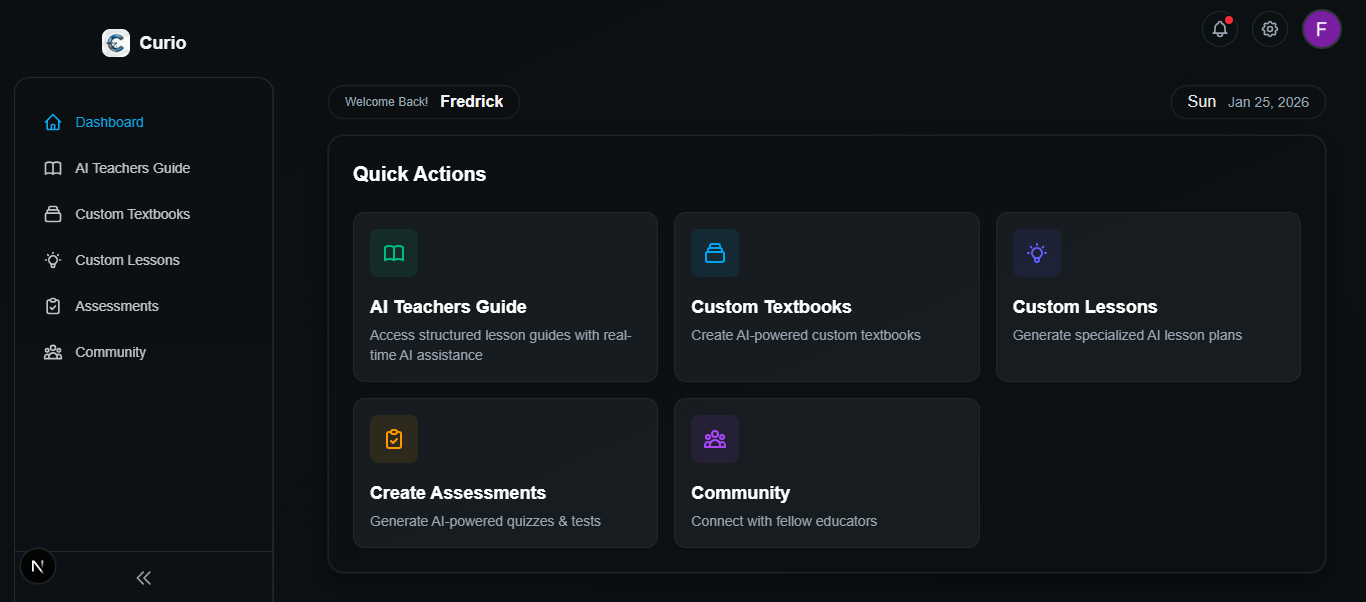
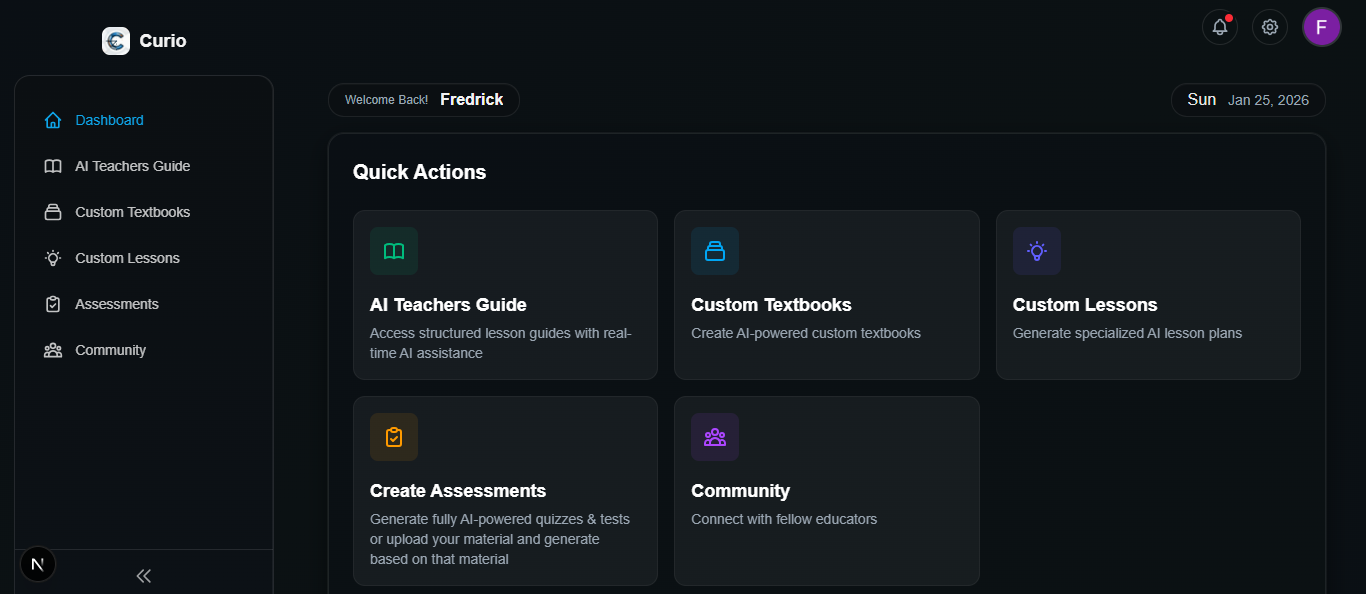
Refactor hero page to use the new images

diff --git a/components/CBCTeacher/dashboard/QuickActionsCard.tsx b/components/CBCTeacher/dashboard/QuickActionsCard.tsx
@@ -41,7 +41,7 @@ export default function QuickActionsCard() {
         },
         {
             title: "Create Assessments",
-            description: "Generate AI-powered quizzes & tests",
+            description: "Generate fully AI-powered quizzes & tests or upload your material and generate based on that material",
             icon: (
                 <svg className="w-6 h-6" fill="none" viewBox="0 0 24 24" stroke="currentColor">
                     <path strokeLinecap="round" strokeLinejoin="round" strokeWidth={2} d="M9 5H7a2 2 0 00-2 2v12a2 2 0 002 2h10a2 2 0 002-2V7a2 2 0 00-2-2h-2M9 5a2 2 0 002 2h2a2 2 0 002-2M9 5a2 2 0 012-2h2a2 2 0 012 2m-6 9l2 2 4-4" />

diff --git a/components/Landing/Footer.tsx b/components/Landing/Footer.tsx
@@ -6,12 +6,12 @@ export default function Footer() {
   return (
     <footer className="bg-black text-gray-400 px-6 py-12 md:py-16 border-t border-gray-800">
       <div className="max-w-6xl mx-auto grid grid-cols-1 md:grid-cols-4 gap-10 text-sm">
-        
+
         {/* Brand Section */}
         <div>
           <h2 className="text-white text-lg font-semibold mb-3">Learning.ai</h2>
           <p className="leading-relaxed">
-            Learn anything, anytime, anywhere.  
+            Learn anything, anytime, anywhere.
             AI-personalized learning for students, schools, and professionals.
           </p>
         </div>

diff --git a/components/Landing/HeroSection.tsx b/components/Landing/HeroSection.tsx
@@ -8,7 +8,17 @@ import Navbar from "@/components/Landing/Navbar";
 export default function HeroSection() {
   const router = useRouter();
   const [currentIndex, setCurrentIndex] = useState(0);
-  const slides = ["/slide1.png", "/slide2.png", "/slide3.png"];
+  const slides = [
+    "/Curio Student Dashboard.PNG",
+    "/Empty Classroom.PNG",
+    "/Interactive Quizes.PNG",
+    "/Lesson in progress.PNG",
+    "/interactive Quizes1.PNG",
+    "/Natural Chat with AI.PNG",
+    "/Podcast.PNG",
+    "/Teacher Dashboard Overview.PNG",
+    "/Courses Page.PNG",
+  ];
 
   useEffect(() => {
     const interval = setInterval(() => {
